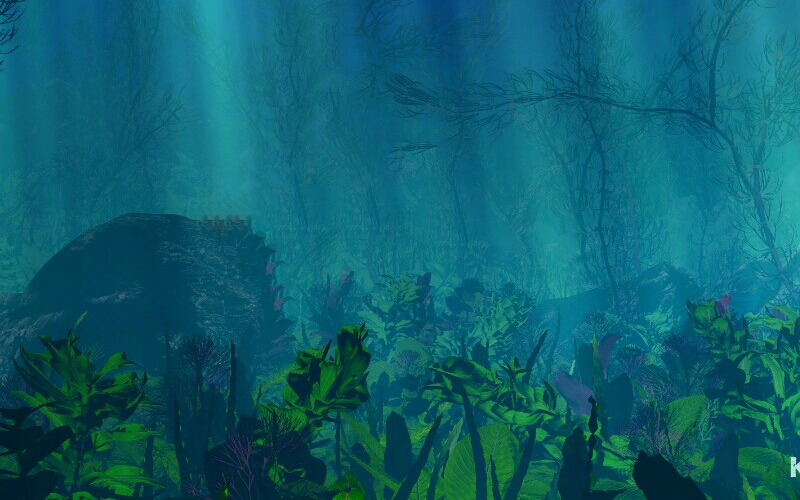
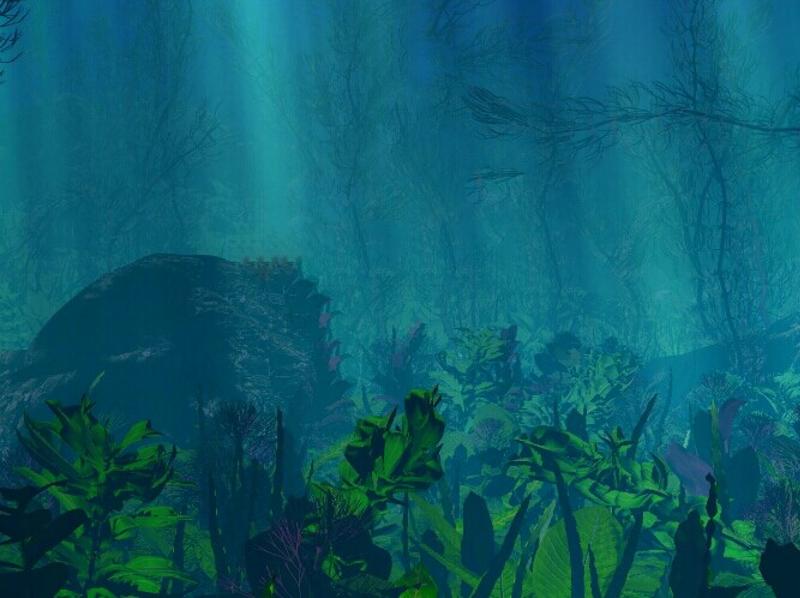
Change asstes

diff --git a/src/Preloader.js b/src/Preloader.js
@@ -157,7 +157,7 @@ TuxGame.Preloader.prototype = {
     
     // Images
     this.load.image('welcome-male-tux-brush', 'img/block2/game2/male-tux-brush.png?v=1');
-    this.load.image('sea-bg-2',   'img/block2/game2/fondo3.png?v=2');
+    this.load.image('sea-bg-2',   'img/block2/game2/fondo3.png?v=3');
     this.load.image('fish_body',  'img/block2/game2/fish_body.png?v=2');
     this.load.image('square_blue','img/block2/game2/square_blue.png?v=2');
     this.load.image('square_green','img/block2/game2/square_green.png?v=2');
@@ -335,6 +335,6 @@ TuxGame.Preloader.prototype = {
   create: function(){
     // start the MainMenu state
     this.add.audio('loop').loopFull(1);
-    this.state.start('MenuB3G2');
+    this.state.start('Block2Game2Welcome');
   }
 };
